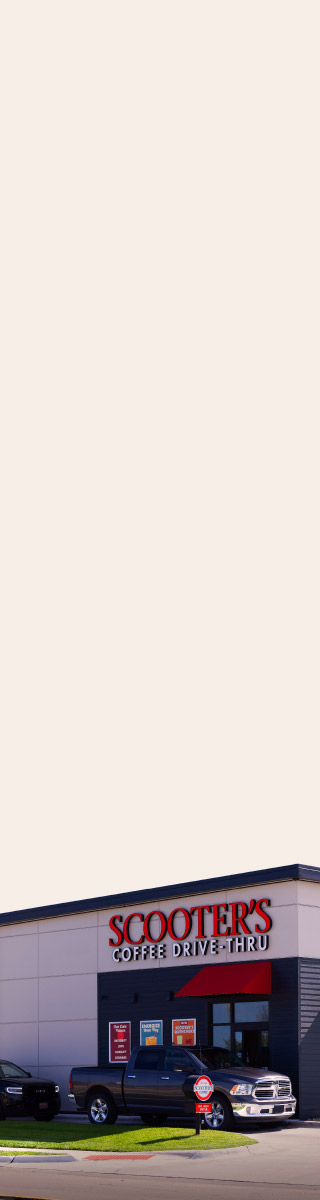
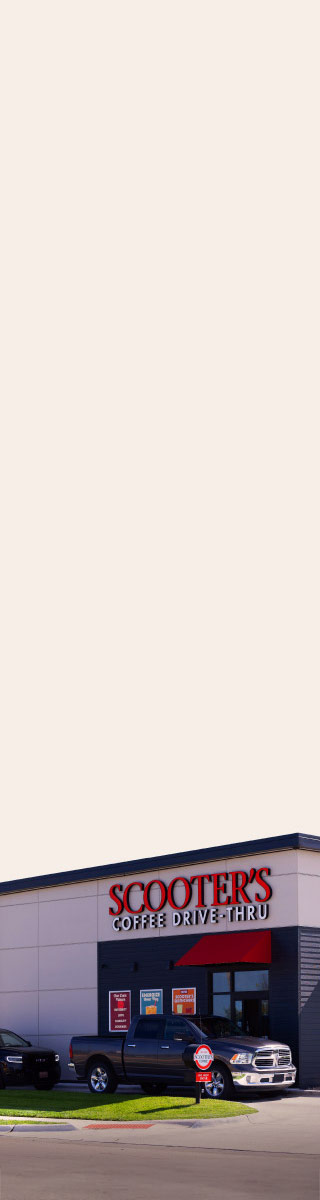
legal added

Changed region(s): [[0.0, 0.6783, 1.0, 1.0]]

diff --git a/archive/bannerpreviews/scooter/hcm/728x90/index.html b/archive/bannerpreviews/scooter/hcm/728x90/index.html
@@ -112,6 +112,7 @@
 			  .from('#cta', textIn, d+= 0.3)
 			  .from('#star6', {x:'-=20', y: '+=10', scale:0, rotation: '+=180', ease:Back.easeOut, duration: 0.35}, d)
 			  .from('#star7', {x:'-=20', y: '-=10', scale:0, rotation: '+=180', ease:Back.easeOut, duration: 0.35}, d+= 0.1)
+			  .from('#legal',{autoAlpha:0, duration:1.0}, d+ 0.4)
 
 			  .to('#cta', {scale:1.2, ease:Sine.easeInOut, duration:0.6, transformOrigin:'50% 25%'}, d+= 1)
 			  .to('#cta', {scale:1, ease:Back.easeOut, duration:0.25}, d+= 0.4)
@@ -152,6 +153,9 @@
 			<img src="logo.png" id="logo" width="728px" height="90px" />
 			<svg id="star6" xmlns="http://www.w3.org/2000/svg" viewBox="0 0 26 25"><polygon points="13 0 17.67 7.33 26 9.55 20.55 16.3 21.03 25 13 21.85 4.97 25 5.45 16.3 0 9.55 8.33 7.33 13 0" style="fill:#ee2939;"/></svg>
 			<svg id="star7" xmlns="http://www.w3.org/2000/svg" viewBox="0 0 26 25"><polygon points="13 0 17.67 7.33 26 9.55 20.55 16.3 21.03 25 13 21.85 4.97 25 5.45 16.3 0 9.55 8.33 7.33 13 0" style="fill:#ee2939;"/></svg>
+			
+			<img src="legal.png" id="legal" width="728px" height="90px" />
+
 
 
 			<div id="cover"></div>

diff --git a/archive/bannerpreviews/scooter/gcm/300x250/index.html b/archive/bannerpreviews/scooter/gcm/300x250/index.html
@@ -109,6 +109,7 @@
 			  .from('#cta', textIn, d+= 0.3)
 			  .from('#star7', {x:'-=20', y: '-=30', scale:0, rotation: '+=180', ease:Back.easeOut, duration: 0.35}, d)
 			  .from('#star6', {x:'+=20', y: '+=30', scale:0, rotation: '+=180', ease:Back.easeOut, duration: 0.35}, d+= 0.25)
+			  .from('#legal',{autoAlpha:0, duration:1.0}, d+ 0.4)
 			  .to('#cta', {scale:1.1, ease:Sine.easeInOut, duration:0.4, transformOrigin:'50% 33%'}, d+= 1)
 			  .to('#cta', {scale:1, ease:Back.easeOut, duration:0.25}, d+= 0.4)
 			  
@@ -148,6 +149,7 @@
 			<img src="cta.png" id="cta" width="300px" height="250px" />
 			<svg id="star6" xmlns="http://www.w3.org/2000/svg" viewBox="0 0 26 25"><polygon points="13 0 17.67 7.33 26 9.55 20.55 16.3 21.03 25 13 21.85 4.97 25 5.45 16.3 0 9.55 8.33 7.33 13 0" style="fill:#ee2939;"/></svg>
 			<svg id="star7" xmlns="http://www.w3.org/2000/svg" viewBox="0 0 26 25"><polygon points="13 0 17.67 7.33 26 9.55 20.55 16.3 21.03 25 13 21.85 4.97 25 5.45 16.3 0 9.55 8.33 7.33 13 0" style="fill:#ee2939;"/></svg>
+			<img src="legal.png" id="legal" width="300px" height="250px" />
 
 
 			<div id="cover"></div>

diff --git a/archive/bannerpreviews/scooter/hcm/300x250/index.html b/archive/bannerpreviews/scooter/hcm/300x250/index.html
@@ -112,6 +112,7 @@
 			  .from('#cta', textIn, d+= 0.3)
 			  .from('#star7', {x:'-=20', y: '-=30', scale:0, rotation: '+=180', ease:Back.easeOut, duration: 0.35}, d)
 			  .from('#star6', {x:'+=20', y: '+=30', scale:0, rotation: '+=180', ease:Back.easeOut, duration: 0.35}, d+= 0.25)
+			  .from('#legal',{autoAlpha:0, duration:1.0}, d+ 0.4)
 			  .to('#cta', {scale:1.1, ease:Sine.easeInOut, duration:0.4, transformOrigin:'50% 33%'}, d+= 1)
 			  .to('#cta', {scale:1, ease:Back.easeOut, duration:0.25}, d+= 0.4)
 			  
@@ -151,6 +152,7 @@
 			<img src="cta.png" id="cta" width="300px" height="250px" />
 			<svg id="star6" xmlns="http://www.w3.org/2000/svg" viewBox="0 0 26 25"><polygon points="13 0 17.67 7.33 26 9.55 20.55 16.3 21.03 25 13 21.85 4.97 25 5.45 16.3 0 9.55 8.33 7.33 13 0" style="fill:#ee2939;"/></svg>
 			<svg id="star7" xmlns="http://www.w3.org/2000/svg" viewBox="0 0 26 25"><polygon points="13 0 17.67 7.33 26 9.55 20.55 16.3 21.03 25 13 21.85 4.97 25 5.45 16.3 0 9.55 8.33 7.33 13 0" style="fill:#ee2939;"/></svg>
+			<img src="legal.png" id="legal" width="300px" height="250px" />
 
 
 			<div id="cover"></div>

diff --git a/archive/bannerpreviews/scooter/gcm/160x600/index.html b/archive/bannerpreviews/scooter/gcm/160x600/index.html
@@ -116,6 +116,7 @@
 			  .from('#logo', textIn, d+= 0.3)
 			  .from('#star6', {x:'-=20', y: '-=30', scale:0, rotation: '+=180', ease:Back.easeOut, duration: 0.35}, d)
 			  .from('#star7', {x:'+=20', y: '-=30', scale:0, rotation: '+=180', ease:Back.easeOut, duration: 0.35}, d+= 0.1)
+			  .from('#legal',{autoAlpha:0, duration:1.0}, d+ 0.4)
 
 			  .to('#cta', {scale:1.2, ease:Sine.easeInOut, duration:0.6, transformOrigin:'50% 25%'}, d+= 1)
 			  .to('#cta', {scale:1, ease:Back.easeOut, duration:0.25}, d+= 0.4)
@@ -157,6 +158,7 @@
 			<img src="logo.png" id="logo" width="160px" height="600px" />
 			<svg id="star6" xmlns="http://www.w3.org/2000/svg" viewBox="0 0 26 25"><polygon points="13 0 17.67 7.33 26 9.55 20.55 16.3 21.03 25 13 21.85 4.97 25 5.45 16.3 0 9.55 8.33 7.33 13 0" style="fill:#ee2939;"/></svg>
 			<svg id="star7" xmlns="http://www.w3.org/2000/svg" viewBox="0 0 26 25"><polygon points="13 0 17.67 7.33 26 9.55 20.55 16.3 21.03 25 13 21.85 4.97 25 5.45 16.3 0 9.55 8.33 7.33 13 0" style="fill:#ee2939;"/></svg>
+			<img src="legal.png" id="legal" width="160px" height="600px" />
 
 
 			<div id="cover"></div>

diff --git a/archive/bannerpreviews/scooter/hcm/160x600/index.html b/archive/bannerpreviews/scooter/hcm/160x600/index.html
@@ -117,6 +117,7 @@
 			  .from('#logo', textIn, d+= 0.3)
 			  .from('#star6', {x:'-=20', y: '-=30', scale:0, rotation: '+=180', ease:Back.easeOut, duration: 0.35}, d)
 			  .from('#star7', {x:'+=20', y: '-=30', scale:0, rotation: '+=180', ease:Back.easeOut, duration: 0.35}, d+= 0.1)
+			  .from('#legal',{autoAlpha:0, duration:1.0}, d+ 0.4)
 
 			  .to('#cta', {scale:1.2, ease:Sine.easeInOut, duration:0.6, transformOrigin:'50% 25%'}, d+= 1)
 			  .to('#cta', {scale:1, ease:Back.easeOut, duration:0.25}, d+= 0.4)
@@ -158,6 +159,7 @@
 			<img src="logo.png" id="logo" width="160px" height="600px" />
 			<svg id="star6" xmlns="http://www.w3.org/2000/svg" viewBox="0 0 26 25"><polygon points="13 0 17.67 7.33 26 9.55 20.55 16.3 21.03 25 13 21.85 4.97 25 5.45 16.3 0 9.55 8.33 7.33 13 0" style="fill:#ee2939;"/></svg>
 			<svg id="star7" xmlns="http://www.w3.org/2000/svg" viewBox="0 0 26 25"><polygon points="13 0 17.67 7.33 26 9.55 20.55 16.3 21.03 25 13 21.85 4.97 25 5.45 16.3 0 9.55 8.33 7.33 13 0" style="fill:#ee2939;"/></svg>
+			<img src="legal.png" id="legal" width="160px" height="600px" />
 
 
 			<div id="cover"></div>

diff --git a/archive/bannerpreviews/scooter/hcm/300x600/index.html b/archive/bannerpreviews/scooter/hcm/300x600/index.html
@@ -112,6 +112,7 @@
 			  .from('#logo', textIn, d+= 0.3)
 			  .from('#star6', {x:'-=20', y: '-=30', scale:0, rotation: '+=180', ease:Back.easeOut, duration: 0.35}, d)
 			  .from('#star7', {x:'+=20', y: '-=30', scale:0, rotation: '+=180', ease:Back.easeOut, duration: 0.35}, d+= 0.1)
+			  .from('#legal',{autoAlpha:0, duration:1.0}, d+ 0.4)
 
 			  .to('#cta', {scale:1.2, ease:Sine.easeInOut, duration:0.6, transformOrigin:'50% 25%'}, d+= 1)
 			  .to('#cta', {scale:1, ease:Back.easeOut, duration:0.25}, d+= 0.4)
@@ -152,6 +153,7 @@
 			<img src="logo.png" id="logo" width="300px" height="600px" />
 			<svg id="star6" xmlns="http://www.w3.org/2000/svg" viewBox="0 0 26 25"><polygon points="13 0 17.67 7.33 26 9.55 20.55 16.3 21.03 25 13 21.85 4.97 25 5.45 16.3 0 9.55 8.33 7.33 13 0" style="fill:#ee2939;"/></svg>
 			<svg id="star7" xmlns="http://www.w3.org/2000/svg" viewBox="0 0 26 25"><polygon points="13 0 17.67 7.33 26 9.55 20.55 16.3 21.03 25 13 21.85 4.97 25 5.45 16.3 0 9.55 8.33 7.33 13 0" style="fill:#ee2939;"/></svg>
+			<img src="legal.png" id="legal" width="300px" height="600px" />
 
 
 			<div id="cover"></div>

diff --git a/archive/bannerpreviews/scooter/gcm/728x90/index.html b/archive/bannerpreviews/scooter/gcm/728x90/index.html
@@ -109,6 +109,7 @@
 			  .from('#cta', textIn, d+= 0.3)
 			  .from('#star6', {x:'-=20', y: '+=10', scale:0, rotation: '+=180', ease:Back.easeOut, duration: 0.35}, d)
 			  .from('#star7', {x:'-=20', y: '-=10', scale:0, rotation: '+=180', ease:Back.easeOut, duration: 0.35}, d+= 0.1)
+			  .from('#legal',{autoAlpha:0, duration:1.0}, d+ 0.4)
 
 			  .to('#cta', {scale:1.2, ease:Sine.easeInOut, duration:0.6, transformOrigin:'50% 25%'}, d+= 1)
 			  .to('#cta', {scale:1, ease:Back.easeOut, duration:0.25}, d+= 0.4)
@@ -149,6 +150,7 @@
 			<img src="logo.png" id="logo" width="728px" height="90px" />
 			<svg id="star6" xmlns="http://www.w3.org/2000/svg" viewBox="0 0 26 25"><polygon points="13 0 17.67 7.33 26 9.55 20.55 16.3 21.03 25 13 21.85 4.97 25 5.45 16.3 0 9.55 8.33 7.33 13 0" style="fill:#ee2939;"/></svg>
 			<svg id="star7" xmlns="http://www.w3.org/2000/svg" viewBox="0 0 26 25"><polygon points="13 0 17.67 7.33 26 9.55 20.55 16.3 21.03 25 13 21.85 4.97 25 5.45 16.3 0 9.55 8.33 7.33 13 0" style="fill:#ee2939;"/></svg>
+			<img src="legal.png" id="legal" width="728px" height="90px" />
 
 
 			<div id="cover"></div>

diff --git a/archive/bannerpreviews/scooter/gcm/300x600/index.html b/archive/bannerpreviews/scooter/gcm/300x600/index.html
@@ -110,6 +110,8 @@
 			  .from('#star6', {x:'-=20', y: '-=30', scale:0, rotation: '+=180', ease:Back.easeOut, duration: 0.35}, d)
 			  .from('#star7', {x:'+=20', y: '-=30', scale:0, rotation: '+=180', ease:Back.easeOut, duration: 0.35}, d+= 0.1)
 
+			  .from('#legal',{autoAlpha:0, duration:1.0}, d+ 0.4)
+
 			  .to('#cta', {scale:1.2, ease:Sine.easeInOut, duration:0.6, transformOrigin:'50% 25%'}, d+= 1)
 			  .to('#cta', {scale:1, ease:Back.easeOut, duration:0.25}, d+= 0.4)
 			  
@@ -149,6 +151,8 @@
 			<img src="logo.png" id="logo" width="300px" height="600px" />
 			<svg id="star6" xmlns="http://www.w3.org/2000/svg" viewBox="0 0 26 25"><polygon points="13 0 17.67 7.33 26 9.55 20.55 16.3 21.03 25 13 21.85 4.97 25 5.45 16.3 0 9.55 8.33 7.33 13 0" style="fill:#ee2939;"/></svg>
 			<svg id="star7" xmlns="http://www.w3.org/2000/svg" viewBox="0 0 26 25"><polygon points="13 0 17.67 7.33 26 9.55 20.55 16.3 21.03 25 13 21.85 4.97 25 5.45 16.3 0 9.55 8.33 7.33 13 0" style="fill:#ee2939;"/></svg>
+			<img src="legal.png" id="legal" width="300px" height="600px" />
+
 
 
 			<div id="cover"></div>
